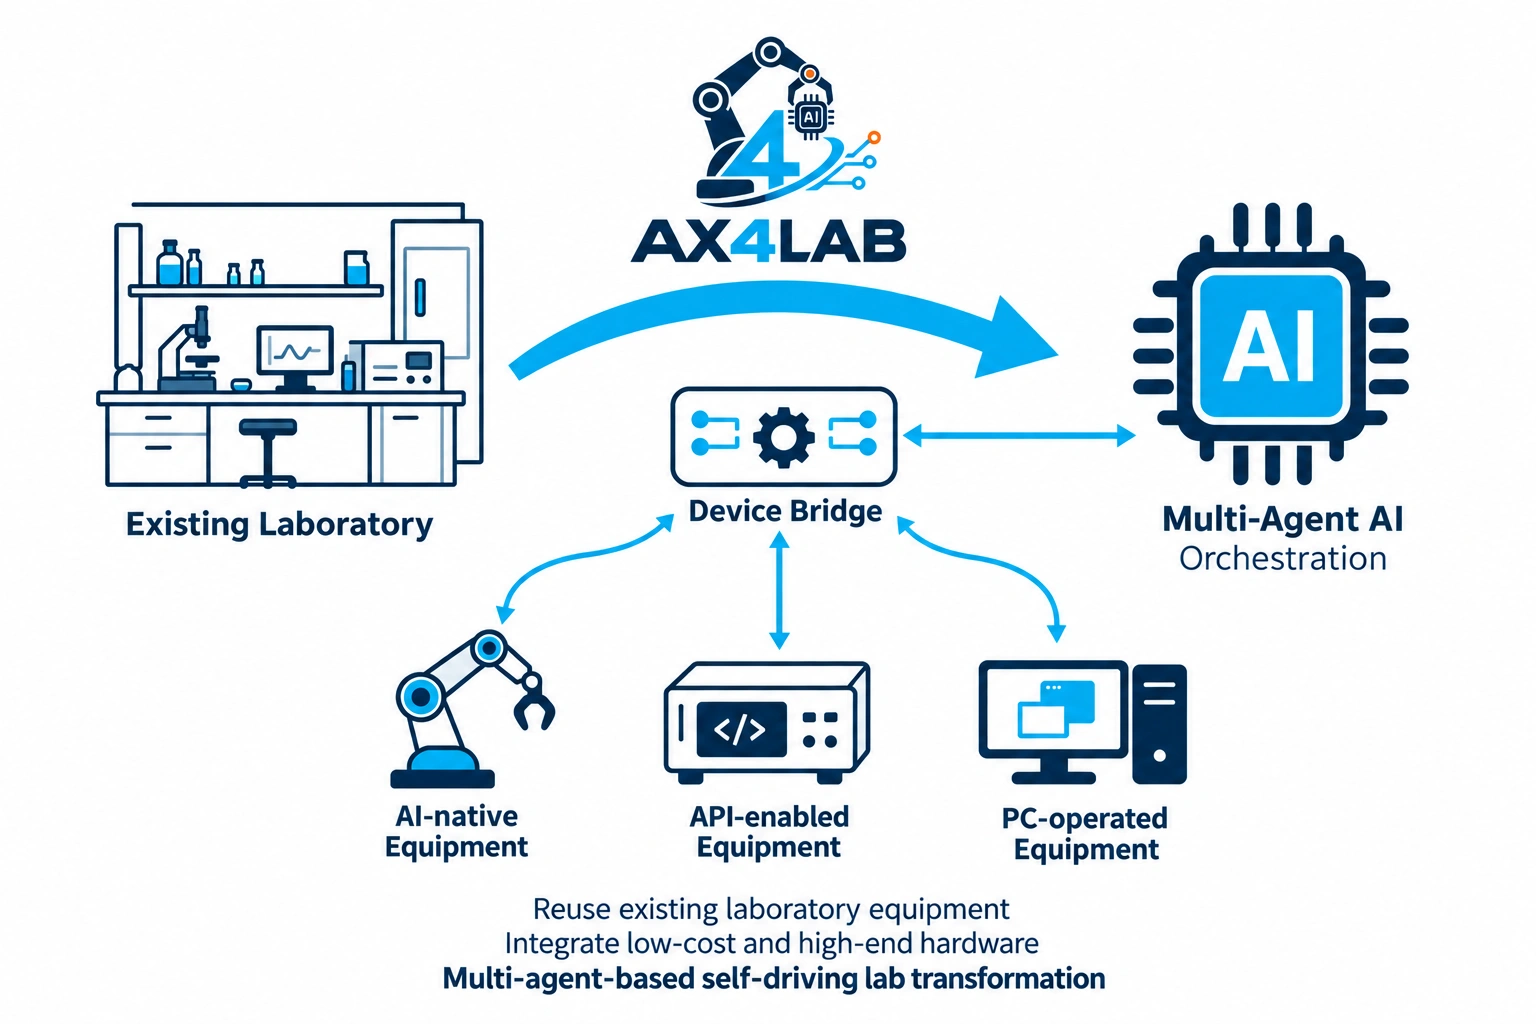
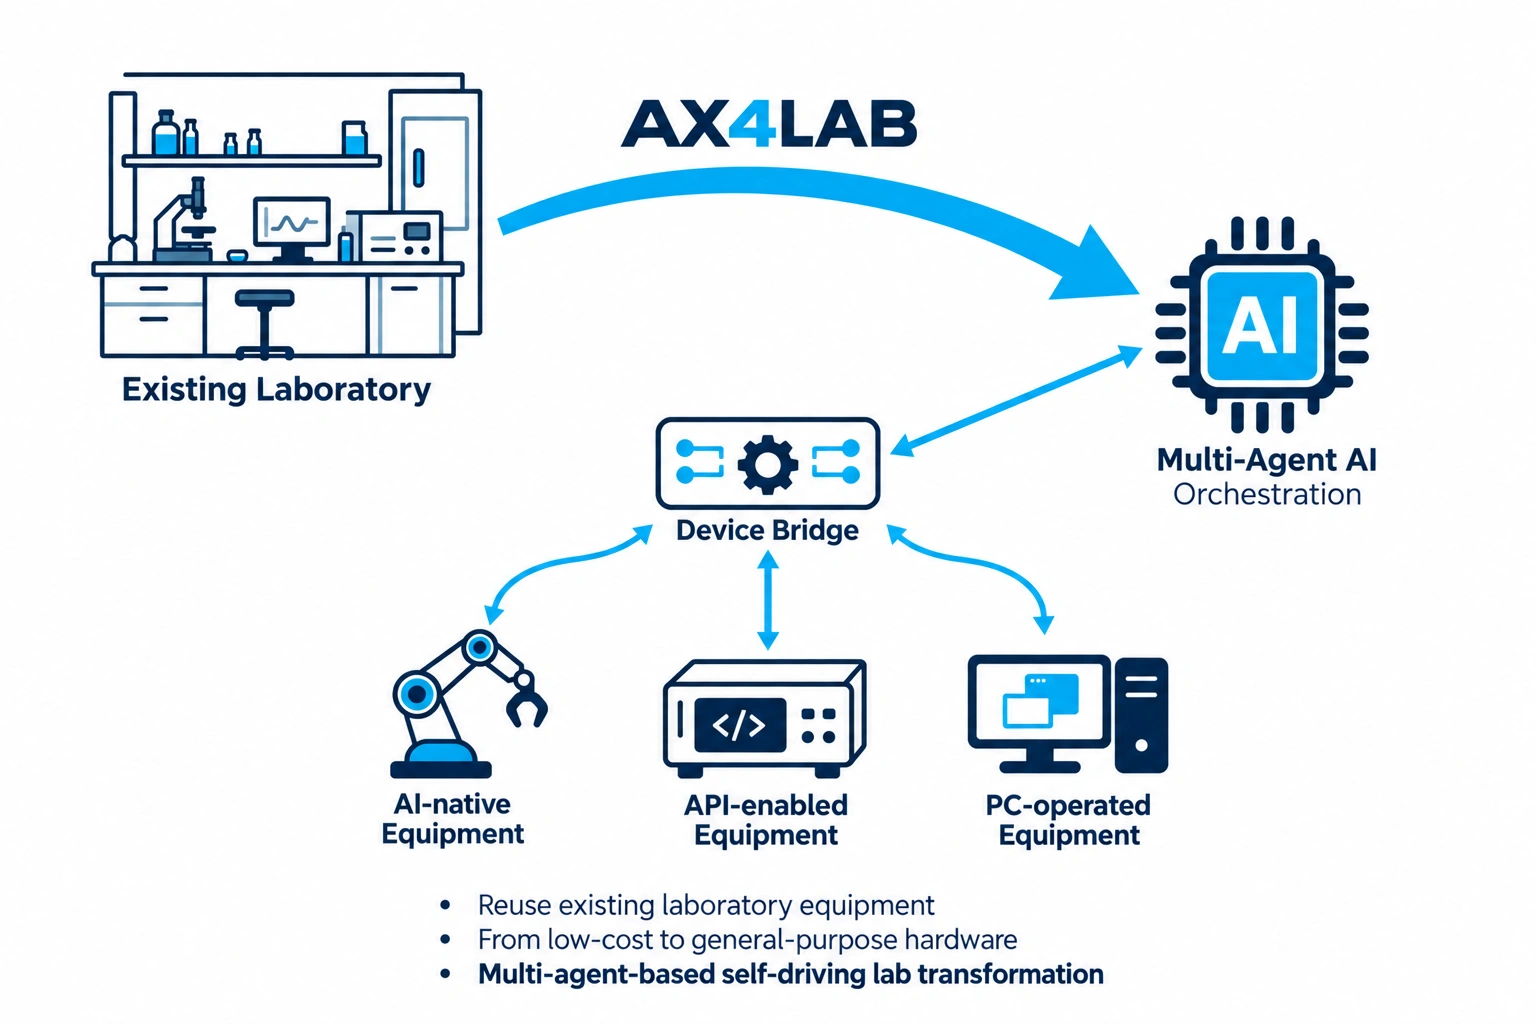
docs: stagger transformation diagram and align supporting bullets

diff --git a/docs/assets/presentation/README.md b/docs/assets/presentation/README.md
@@ -22,7 +22,7 @@ results were synthesized for the paper evidence package.
 
 | Asset | Prompt source | Used in |
 |---|---|---|
-| Multi-agent laboratory transformation | [Sunburst prompt](laboratory-transformation-sunburst.txt) · [Footer and flat-style refinement](laboratory-transformation-sunburst-refinement.txt) | Root README below the logo; GPT Image 2.5 Sunburst, 1536 × 1024, high quality, WebP; supplied layout sketch and AX4LAB logo as image inputs |
+| Multi-agent laboratory transformation | [Sunburst prompt](laboratory-transformation-sunburst.txt) · [Flat-style refinement](laboratory-transformation-sunburst-refinement.txt) · [Diagonal layout and bullet alignment](laboratory-transformation-sunburst-diagonal.txt) | Root README below the logo; GPT Image 2.5 Sunburst, 1536 × 1024, high quality, WebP; supplied layout sketch and AX4LAB logo as image inputs |
 | Previous existing-laboratory transformation (superseded) | [Transformation prompt](laboratory-transformation.txt) | Retained source history; GPT Image 2, 1920 × 960, no longer embedded in the root README |
 | Framework overview, agent architecture, integration architecture | [Three-figure prompts](architecture-figures.jsonl) | Root README System Architecture; three independent 1920 × 960 figures, high quality, WebP |
 | Previous combined architecture (superseded) | [Initial prompt](orchestration-plan-architecture.txt) · [Graph refinement](orchestration-plan-architecture-revision.txt) · [Label correction](orchestration-plan-architecture-label-fix.txt) | Retained source history; no longer embedded in the root README |
@@ -35,10 +35,11 @@ The batch's initial low-cost hero is superseded by the structured-AI overview.
 
 The root transformation figure adapts the conceptual shift in the author's
 2026-09-04 presentation: transform an existing laboratory instead of building
-a new automated facility. The author's layout sketch places the AX4LAB logo
-above the transformation arrow. A processor pictogram represents Multi-Agent AI
-orchestration; generic equipment categories connect through Device Bridge.
-The three supporting lines describe the reuse and integration approach, not a
+a new automated facility. The AX4LAB wordmark sits above the transformation
+arrow; the laboratory, AI processor, and Device Bridge descend in a staggered
+layout. Generic equipment categories connect through Device Bridge.
+The centered, left-aligned bullet list describes equipment reuse, integration
+from low-cost to general-purpose hardware, and multi-agent transformation, not a
 fixed execution sequence or measured deployment outcome.
 
 ## Presentation References
